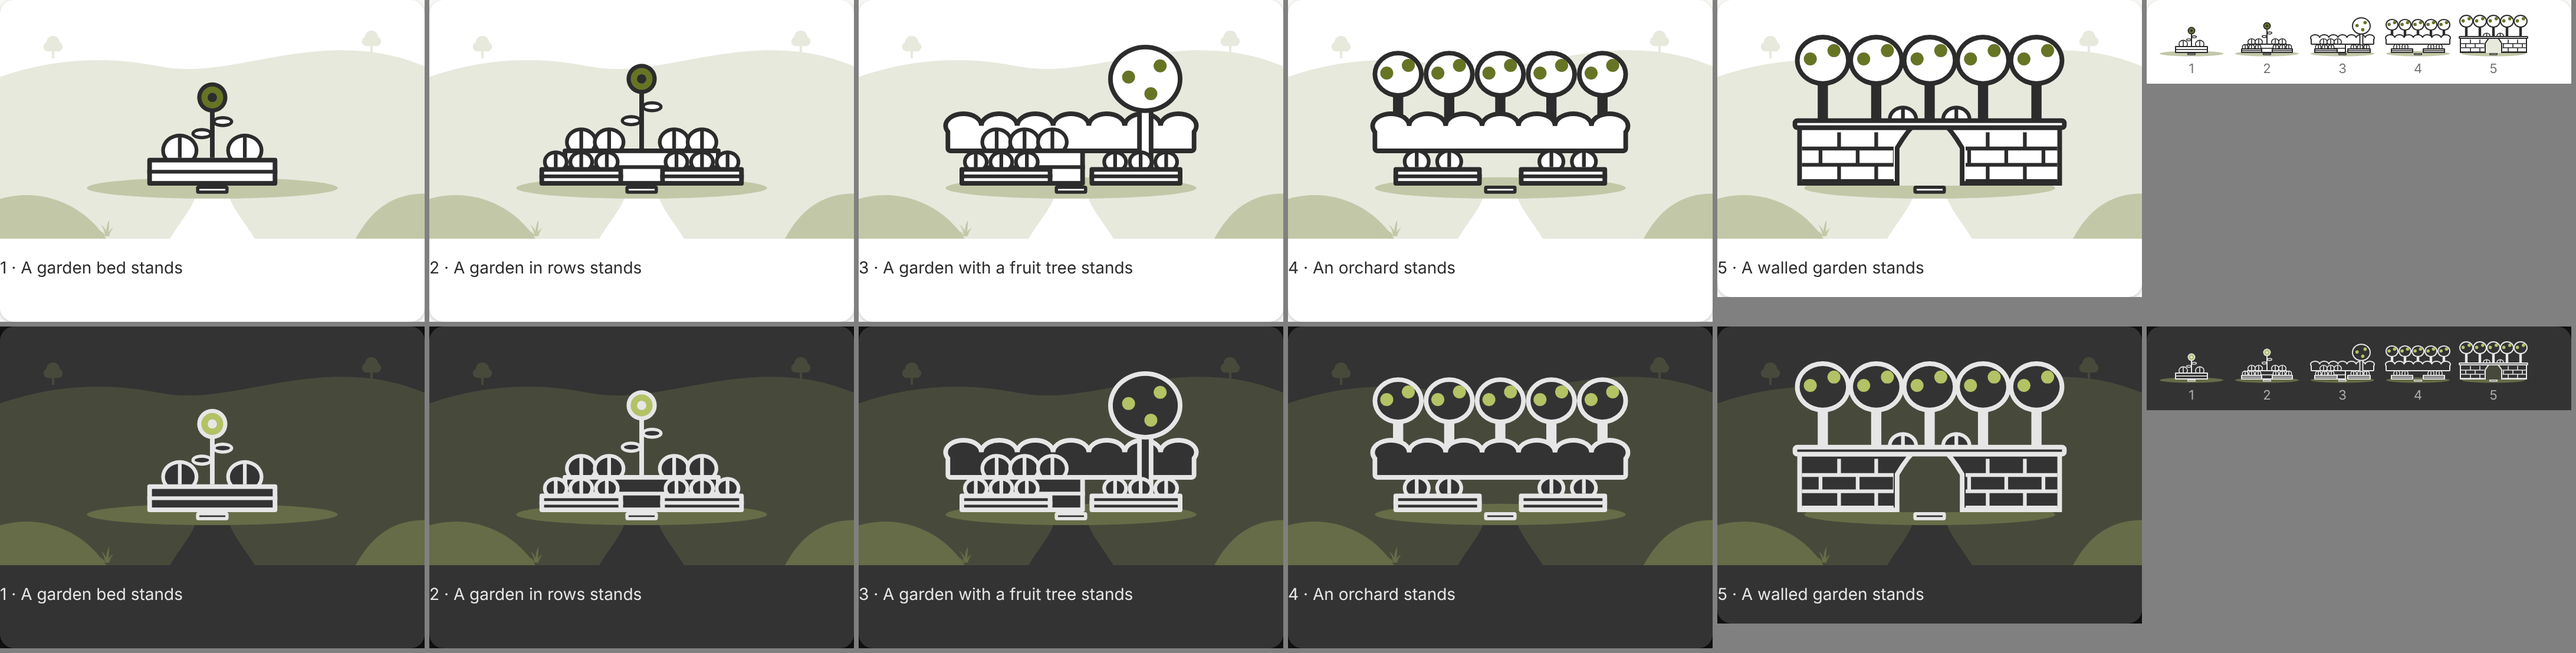
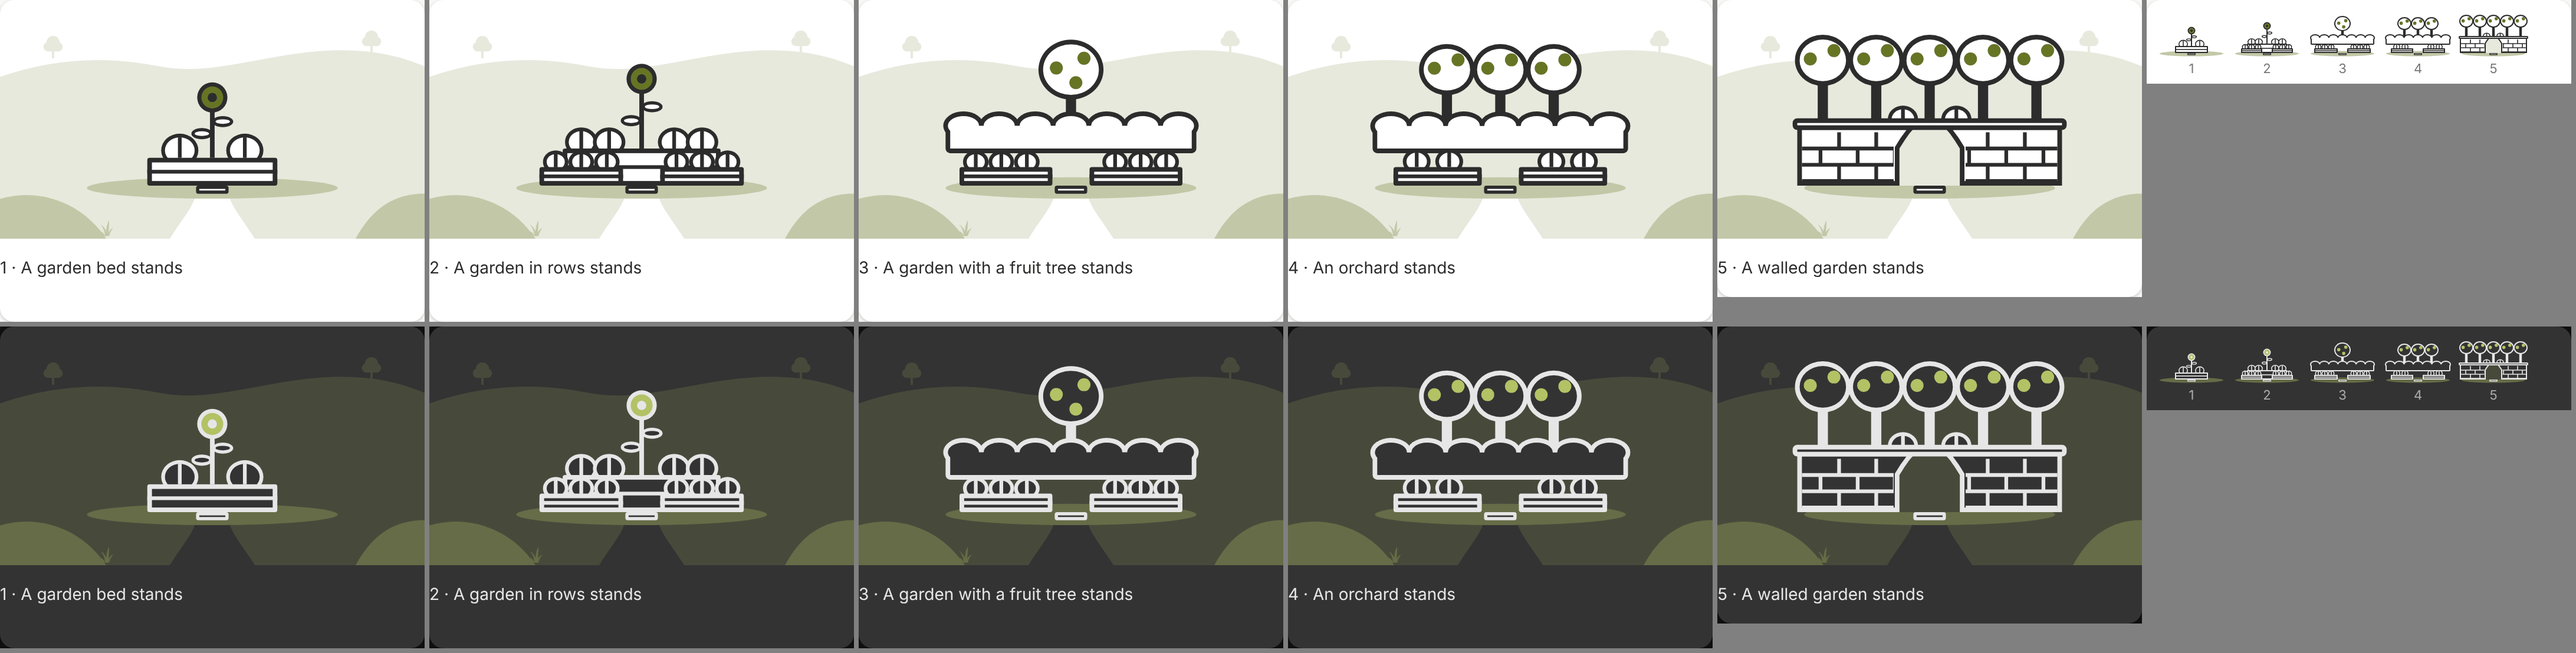
Art: Garden's trees grow from the middle (#135)
The owner saw the trees jump: one in the middle (the sunflower), one on
the right, then suddenly five. They now grow from where the sunflower
stood: one fruit tree in the middle in version 3, three in version 4,
five in version 5, each keeping its place.

Claude-Session: https://claude.ai/code/session_019PsDpCdRYaLb9552fVk121

diff --git a/docs/log.md b/docs/log.md
@@ -2,7 +2,7 @@
 
 ## 2026-11-15
 
-- **Update** (#135, decided by the owner): Garden follows the history rule. The greenhouse is a different technique, so it is parked like the hand pump (rule 8 in [journey design](journey-design.md#builds-and-ladders-the-valley-42), comment on #114); version 4 is an orchard of five fruit trees behind the hedge, version 5 a walled garden: the orchard and beds inside a wall of stones at shoulder height, the trees and plants rising over it, its gate on the threshold stone (titles An orchard / Ein Obstgarten, A walled garden / Ein ummauerter Garten). The measured rules of #136 caught two faults on the way: a plant in the gate covered the threshold stone, and a lower wall made version 5 cover less than 5 % more than the orchard. The generator now also refuses a picture above 4 KB: a first orchard was 4,297 bytes and was written unnoticed ([decision](decisions/ladder-geometry.md)). Checked at 360 × 720 and in the row at 60 × 40, light and dark: a plant inside the gate read as a keyhole and was dropped. Then the owner saw the fruit trees' crowns floating like balls over the hedge and the wall: every tree now stands on a trunk, in a row of five, the trunks ending behind the hedge or wall.
+- **Update** (#135, decided by the owner): Garden follows the history rule. The greenhouse is a different technique, so it is parked like the hand pump (rule 8 in [journey design](journey-design.md#builds-and-ladders-the-valley-42), comment on #114); version 4 is an orchard of five fruit trees behind the hedge, version 5 a walled garden: the orchard and beds inside a wall of stones at shoulder height, the trees and plants rising over it, its gate on the threshold stone (titles An orchard / Ein Obstgarten, A walled garden / Ein ummauerter Garten). The measured rules of #136 caught two faults on the way: a plant in the gate covered the threshold stone, and a lower wall made version 5 cover less than 5 % more than the orchard. The generator now also refuses a picture above 4 KB: a first orchard was 4,297 bytes and was written unnoticed ([decision](decisions/ladder-geometry.md)). Checked at 360 × 720 and in the row at 60 × 40, light and dark: a plant inside the gate read as a keyhole and was dropped. Then the owner saw the fruit trees' crowns floating like balls over the hedge and the wall: every tree now stands on a trunk, in a row of five, the trunks ending behind the hedge or wall. The owner then saw the trees jump (one in the middle, one on the right, suddenly five): they now grow from the middle, where the sunflower stood, one in version 3, three in version 4, five in version 5, each keeping its place.
 - **Decision** (owner): ladder pictures are built with a geometry library and measured ([decision](decisions/ladder-geometry.md)). `clipper2-ts` 2.0.1 (BSL-1.0, development only, [dependencies](dependencies.md)) builds outlines by offsetting, the well house's cut-out by subtraction and the stonework clipped to its wall (`scripts/ladder-geometry.mjs`); `scripts/ladder-checks.mjs` measures every version before `scripts/draw-ladders.mjs` writes (inside the box, at least 5 % more area than the one before, the threshold stone free), and `packages/engine/test/art-geometry.test.ts` measures the committed pictures. A pixel comparison at four times the build size showed no visible change except the well house's stones, which now stop exactly at the arch, and the checks' first findings, now fixed: Garden 5's hedge reached past the box, Well 1's front stones below the base line. Crossing (retired by #128) is only warned about: its plank bridge covers 1 % more than the log ([journey design](journey-design.md#builds-and-ladders-the-valley-42)).
 - **Creation** (#128, Well): the ladder Well, drawn by `scripts/draw-ladders.mjs`: a water hole with its heap of earth and spade, a well sweep over a low stone curb, a round well with a winch, the well under a roof, a stone well house with the well under its arch; each whole and larger than the one before, on Home's threshold stone. Water in the builds is `tint-strong`; the accent is the bucket. Its land setting `setting-green` (a village green: a far ridge with roofs, no water) shares Home's path and marker posts; default marker lanterns, default hue water blue; titles in English and German. Checked at 360 × 720 and in the row at 60 × 40, light and dark: the well wall read as a crate and now has a round rim around its water. The fifth version was first a fountain; the owner rejected it (a fountain is another use than a well), so it is a well house: a closed house with a door read as a second Home house and a low arch as a garage, so its arch is tall and wide; the owner then saw the well standing in front of the house, so it is smaller, set back on the floor of a shaded arch, and the front wall is drawn over it with the arch cut out; then the owner found the stones no longer read as stones, so every stone wall (the well in versions 3 to 5, the well house's whole front wall, whose courses stop at the arch's curve) is drawn as courses of stones with staggered joints (`masonry`); last, the owner found the line broken (versions 1 and 2 were a spring and a trough under a pump, and a pump comes after a dug well): the ladder now follows how water is drawn from a dug well, from a water hole to a well sweep, a winch, a roof and a well house. **Decision** (owner): a ladder follows history step by step (rule 8 in [journey design](journey-design.md#builds-and-ladders-the-valley-42)); a new technique joining what stands (a hand pump at the well house) and several things at one place stay parked (comment on #114) ([journey design](journey-design.md#builds-and-ladders-the-valley-42), `docs/screenshots/ladder-well*.png`). Lookout follows after the owner's judgement.
 - **Creation** (#128, Garden): the ladder Garden, drawn by `scripts/draw-ladders.mjs`: a garden bed with a sunflower, a garden in rows, a garden with a hedge and a fruit tree, a greenhouse, an orchard around the greenhouse; each whole and larger than the one before, on the same threshold stone as Home. Its land setting `setting-field` (open fields, low hills, no water) shares Home's path to the threshold and marker posts (`sides`); default marker flowers, default hue moss; titles in English and German. The engine's list of ladders reads `garden.ladder.json` (no rule changed). Checked at 360 × 720 and in the row of versions at 60 × 40, light and dark, over three rounds: the bean poles were dropped as noise, the hedge became a row of round bushes instead of a box, plants rise further above their beds, the greenhouse stands on a low wall that hides its plants' feet, and the trees of the greenhouse and the orchard stand behind the hedge so their trunks do not read as posts ([journey design](journey-design.md#builds-and-ladders-the-valley-42), `docs/screenshots/ladder-garden*.png`). Well and Lookout follow after the owner's judgement.

diff --git a/docs/journey-design.md b/docs/journey-design.md
@@ -170,10 +170,11 @@ journey):
    is a fire in a ring of single stones, a tent, a hut under a round
    thatch, a cottage with a pitched roof and chimney, a house of two
    storeys. Garden is one raised bed with a sunflower, two rows of beds,
-   the rows before a hedge with a fruit tree, an orchard of five fruit
-   trees in a row behind the hedge, the orchard and beds inside a wall of
-   stones
-   at shoulder height with its gate on the threshold (#135). Well
+   the rows before a hedge with one fruit tree in the middle where the
+   sunflower stood, an orchard of three trees behind the hedge, then five
+   inside a wall of stones at shoulder height with its gate on the
+   threshold (#135); the trees grow from the middle, and what stands keeps
+   its place. Well
    follows how water is drawn: a water hole dug down to the water (its
    earth heaped behind with the spade in it), a well sweep (a beam on a
    forked post with a stone and the bucket on a pole) over a low stone
